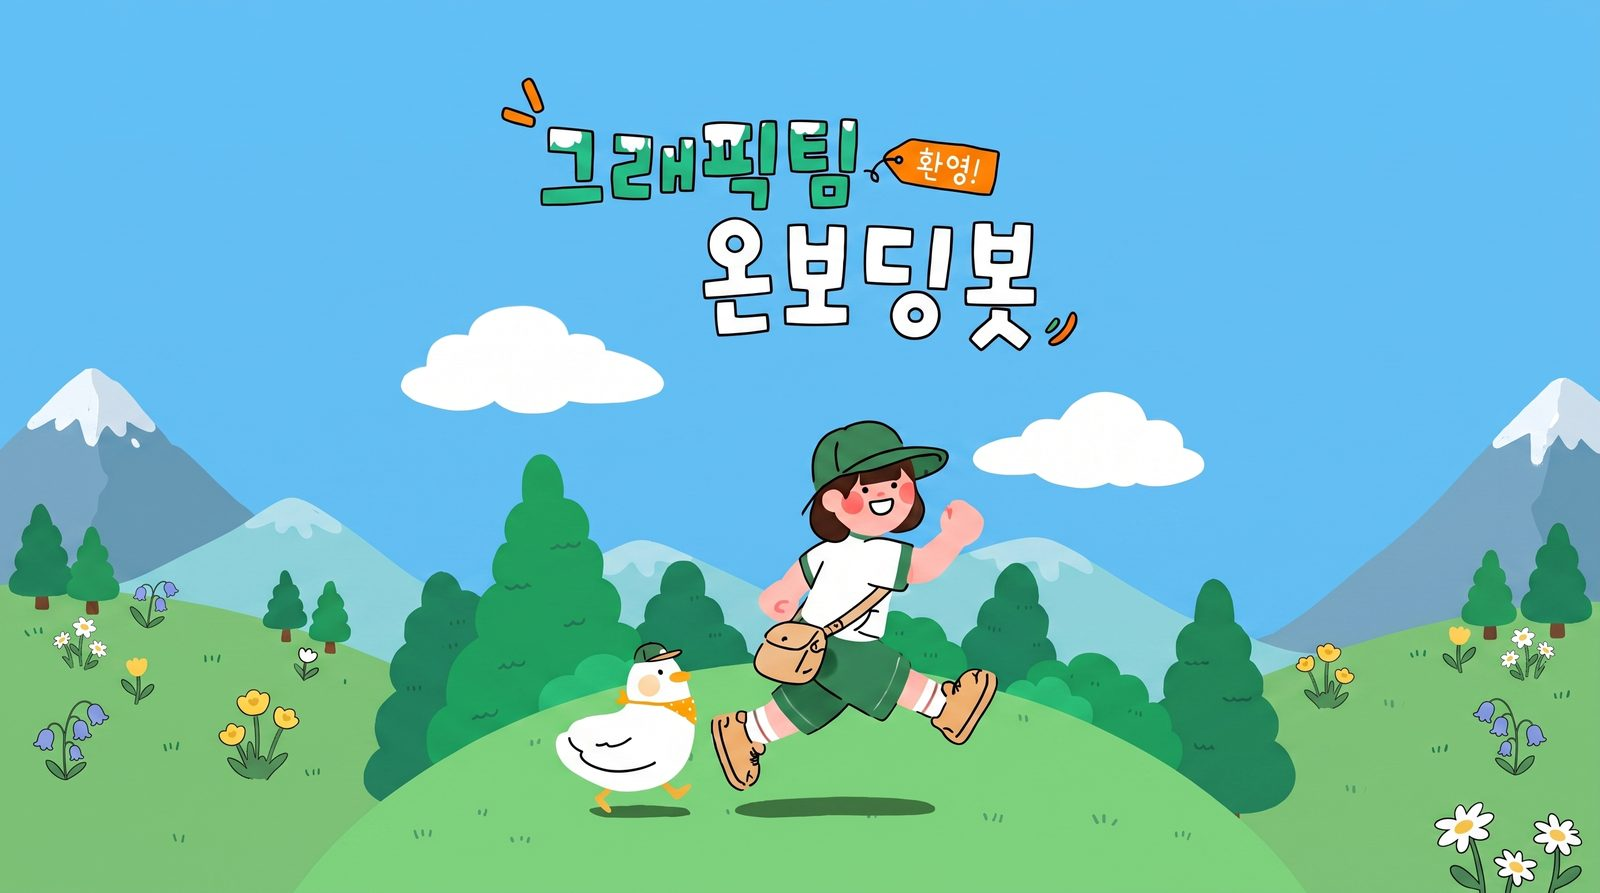
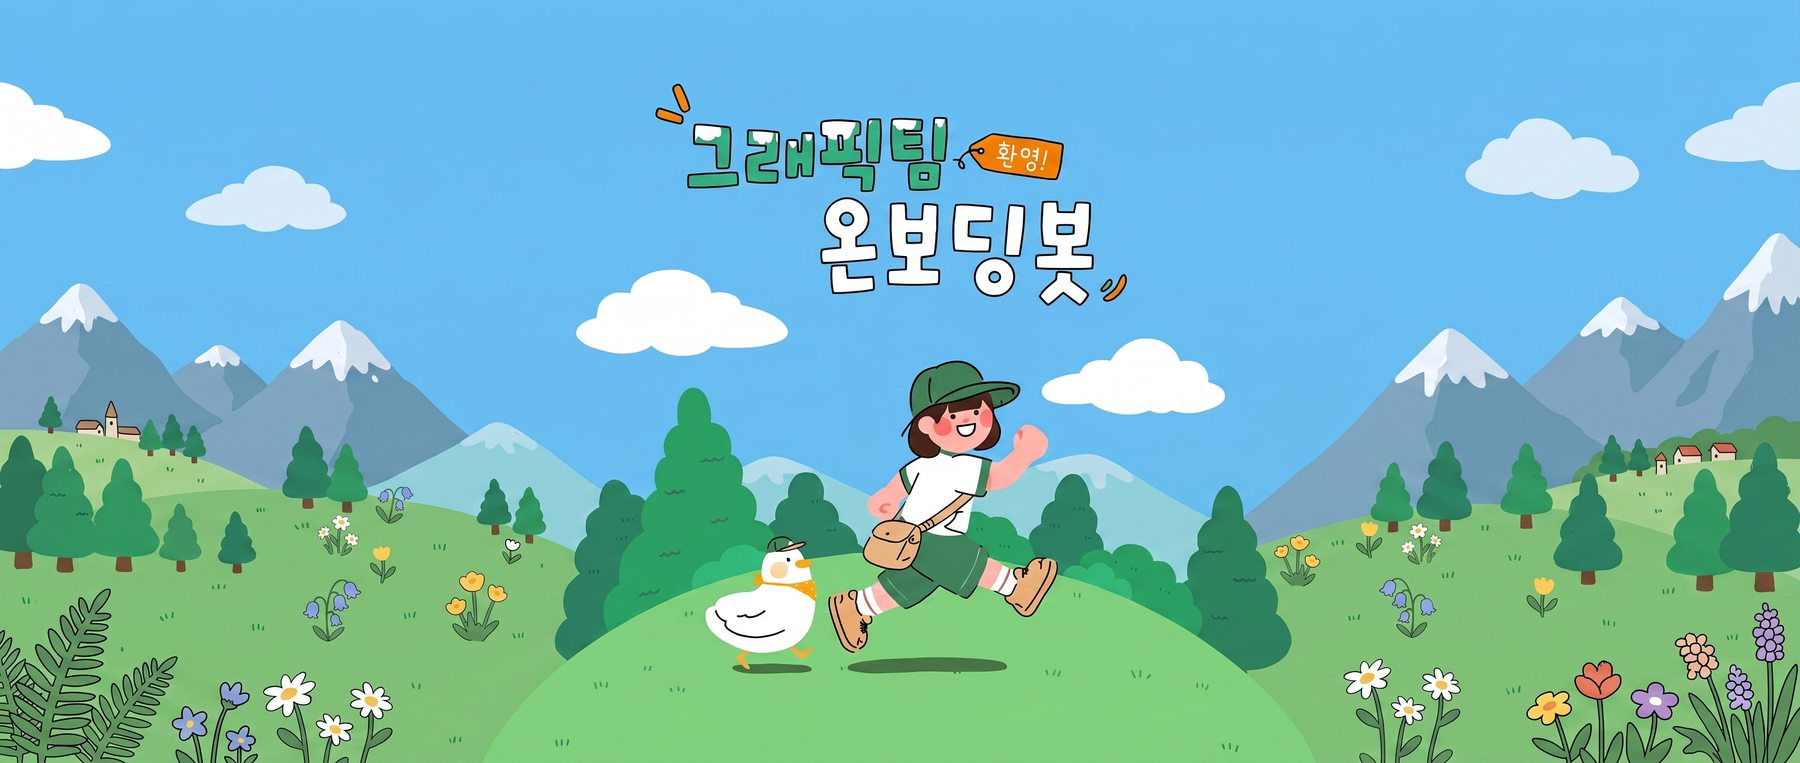
Add files via upload

diff --git a/style.css b/style.css
@@ -151,7 +151,7 @@ body {
   margin: 0;
   min-height: 100vh;
   font-family: -apple-system, BlinkMacSystemFont, "Apple SD Gothic Neo", "Segoe UI", sans-serif;
-  background: #7ecc7a;
+  background: #78bb73;
   color: #111;
   cursor: auto;
   display: flex;
@@ -163,17 +163,14 @@ body {
 .gs-body input { cursor: text; }
 
 /* ── 온보딩 페이지(홈) ── */
-.gs-hero { padding: 24px 20px 40px; text-align: center; }
+.gs-hero { padding: 0 0 40px; text-align: center; }
 .gs-hero-img {
   display: block;
   width: 100%;
-  max-width: 1100px;
   height: auto;
-  margin: 0 auto 24px;
-  border-radius: 26px;
-  box-shadow: 0 14px 34px rgba(0,0,0,.18);
+  margin: 0 0 24px;
 }
-.gs-hero-actions { display: flex; justify-content: center; gap: 18px; flex-wrap: wrap; }
+.gs-hero-actions { display: flex; justify-content: center; gap: 18px; flex-wrap: wrap; padding: 0 20px; }
 .gs-btn {
   display: inline-flex; align-items: center; justify-content: center;
   padding: 16px 34px;
@@ -280,8 +277,8 @@ body {
 .gs-chat-inputbar button:disabled { background: #ccc; }
 
 @media (max-width: 560px) {
-  .gs-hero { padding: 16px 14px 32px; }
-  .gs-hero-img { border-radius: 18px; margin-bottom: 20px; }
+  .gs-hero { padding: 0 0 32px; }
+  .gs-hero-img { margin-bottom: 20px; }
   .gs-btn { padding: 13px 24px; font-size: 16px; }
   .gs-section { width: calc(100% - 24px); padding: 22px 18px; }
   .gs-section-title { font-size: 18px; }
